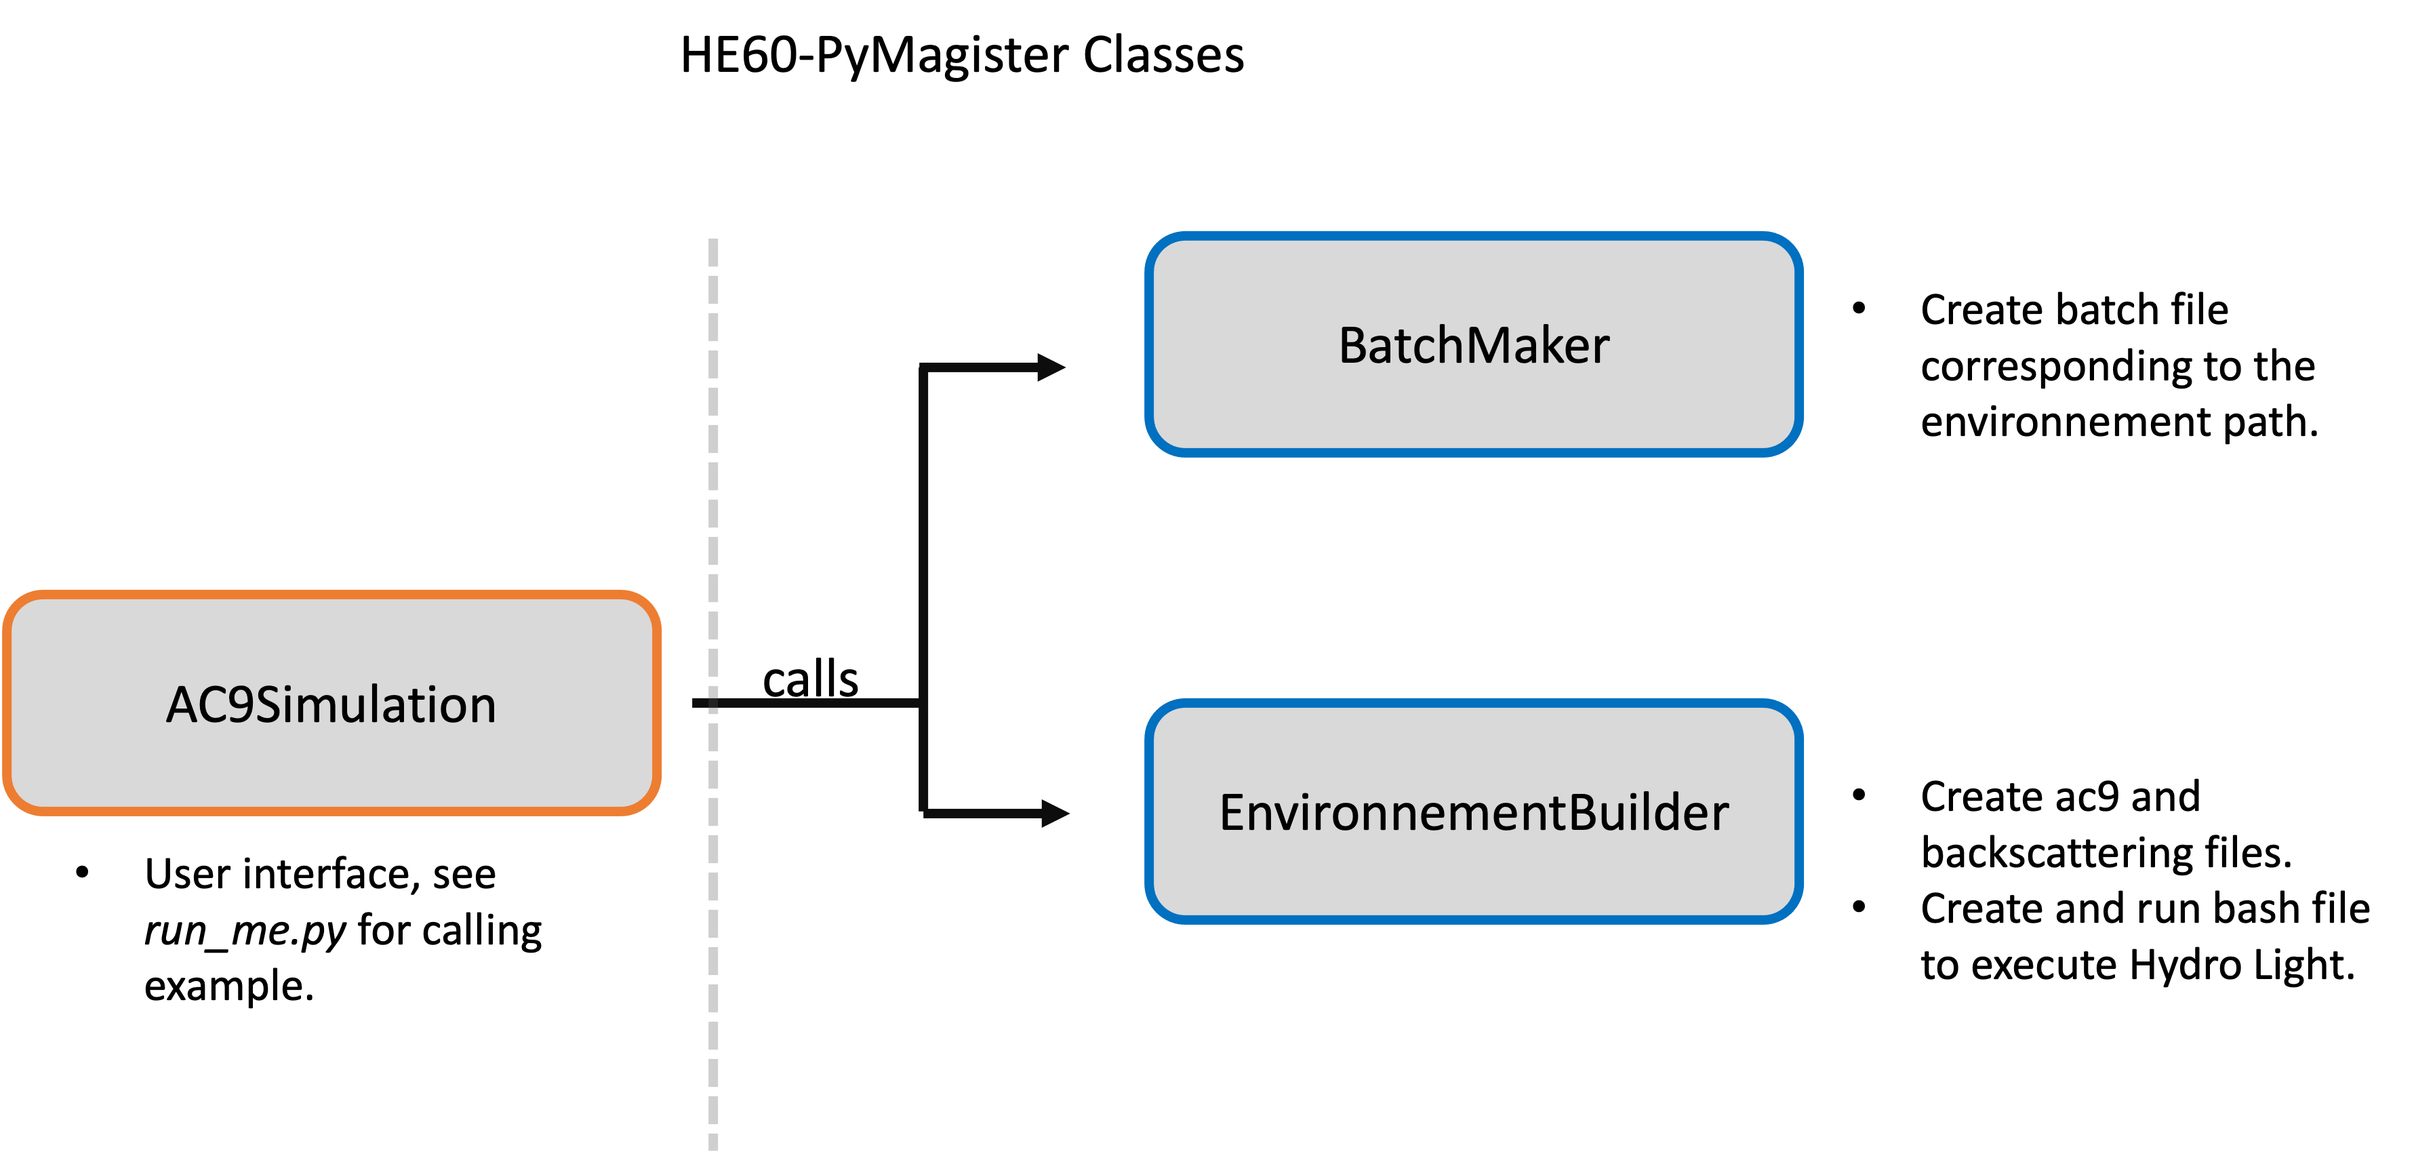
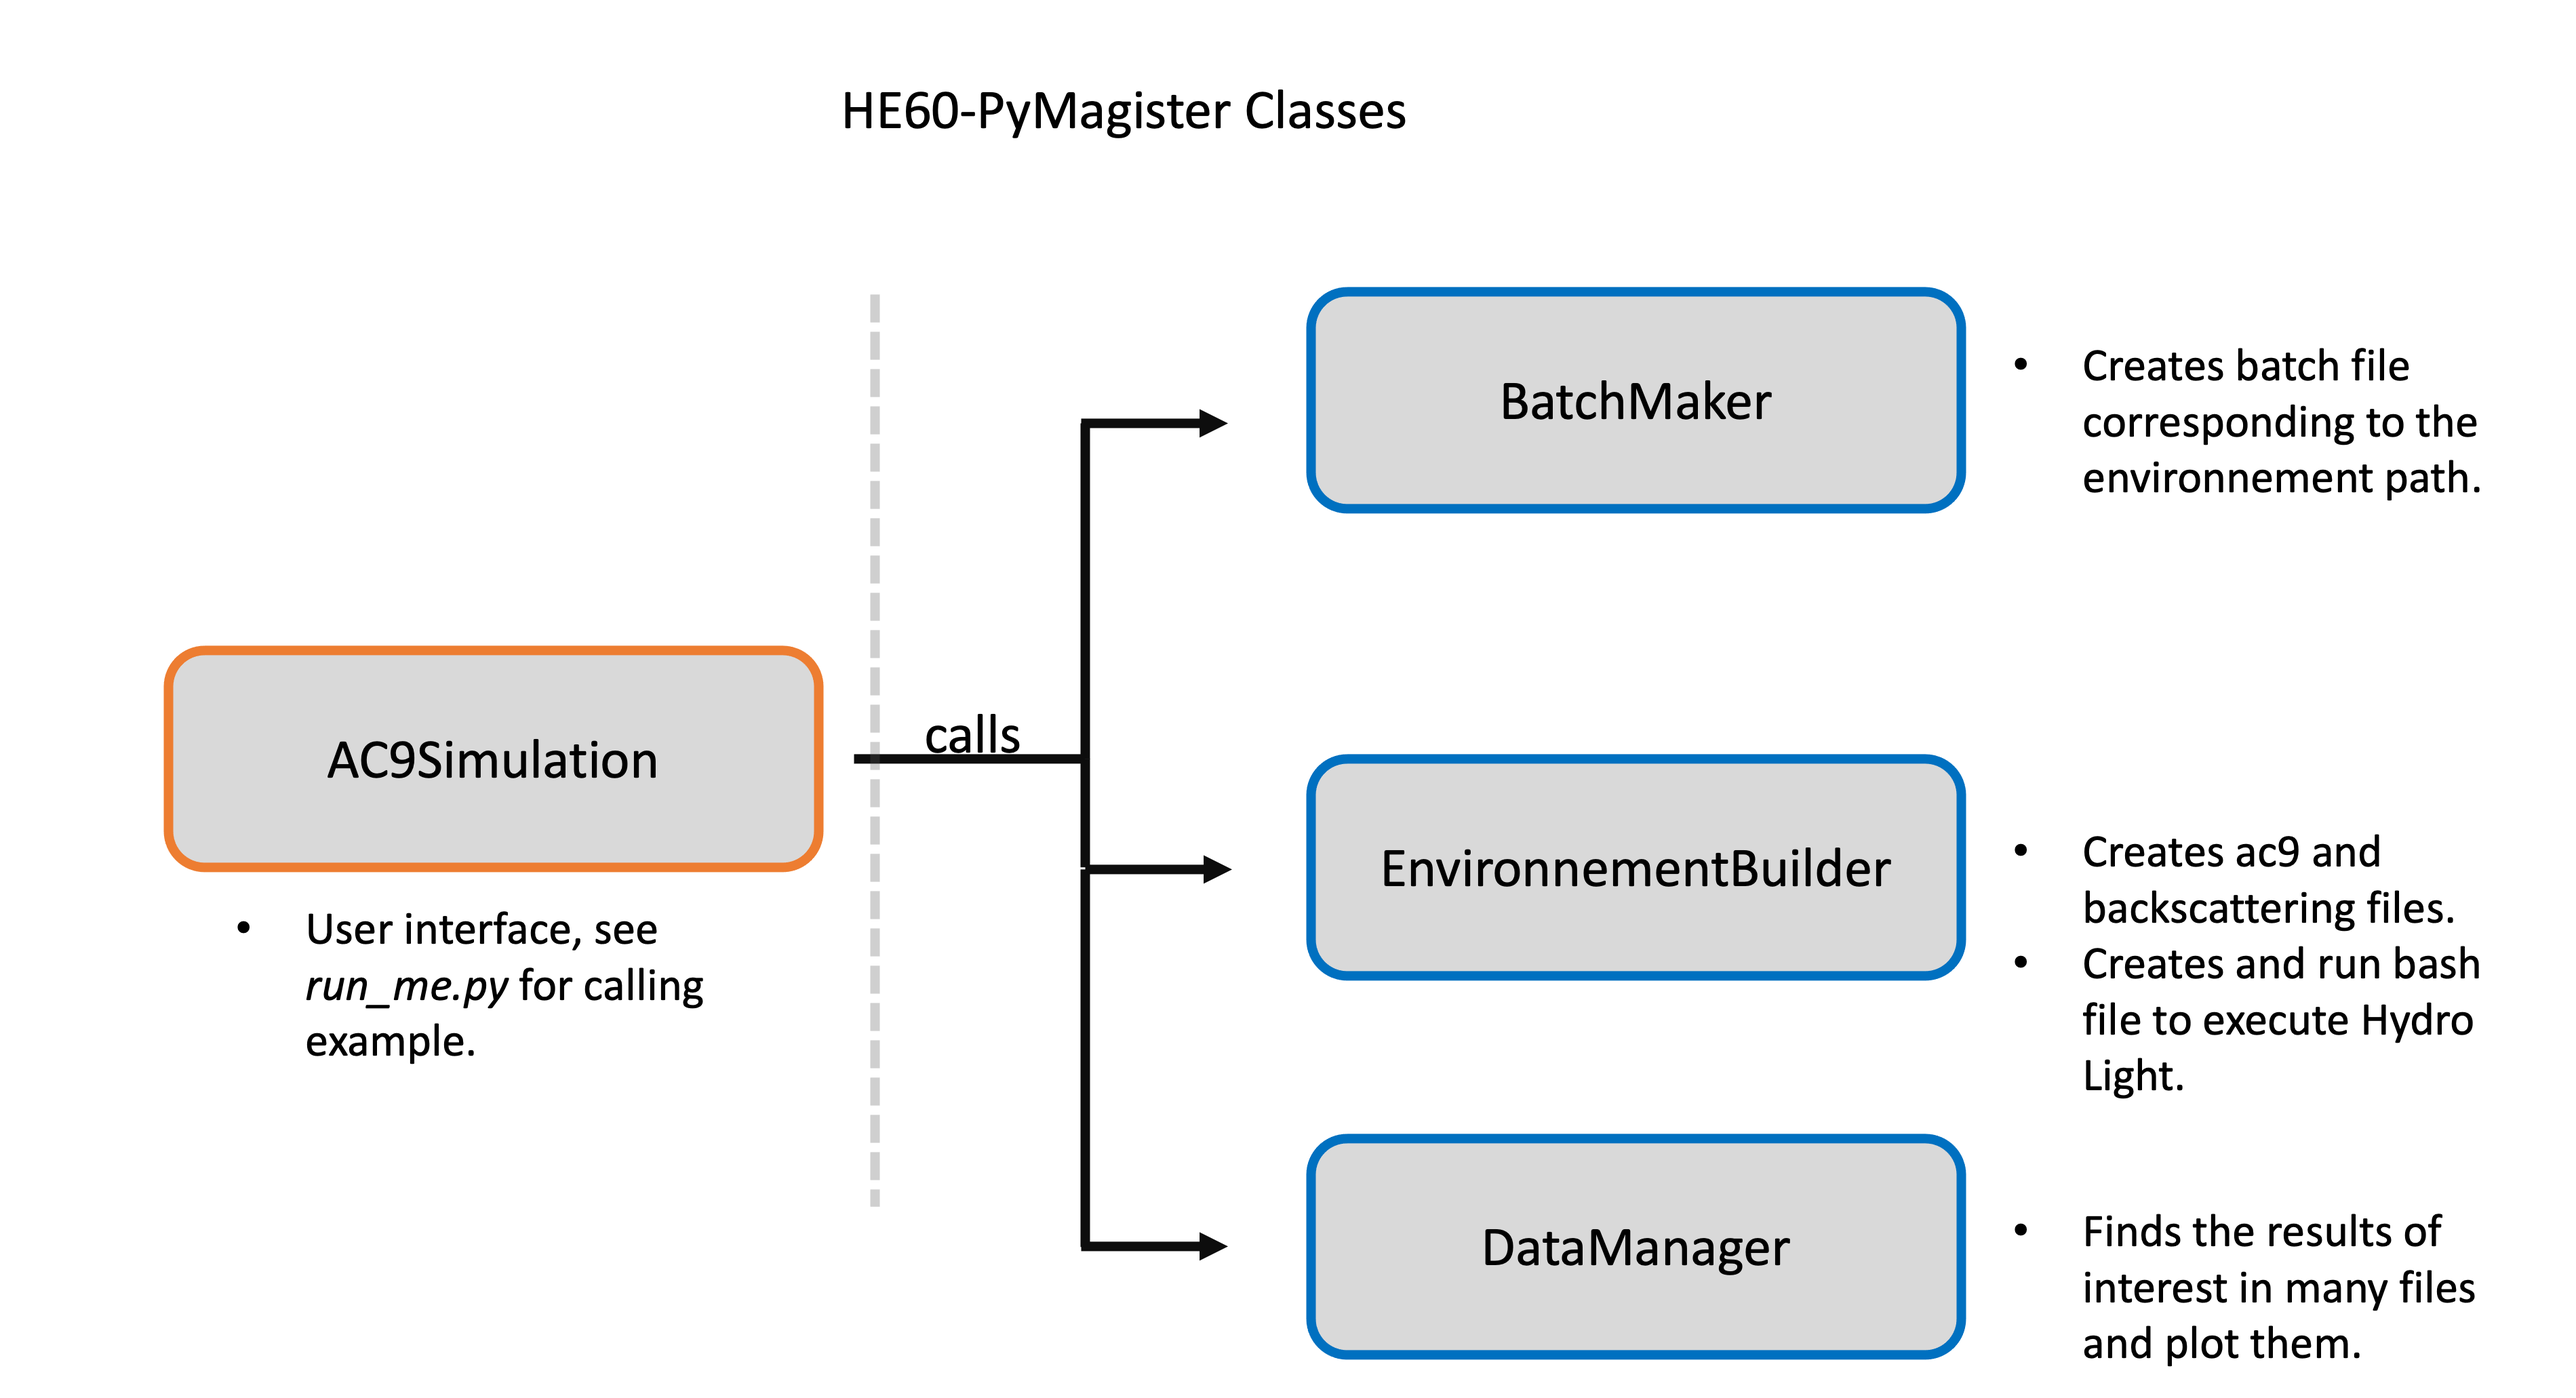
Refactoring to make package like code

Changed region(s): [[0.0, 0.1865, 0.9975, 0.9947], [0.2805, 0.0311, 0.5611, 0.0933]]

diff --git a/HE60_PY/HE60_magister.py b/HE60_PY/HE60_magister.py
@@ -6,7 +6,7 @@ import subprocess
 
 
 def create_null_pure_water():
-    H2O_default_data = np.genfromtxt('ressources/H2OabsorpTS.txt', skip_header=16, skip_footer=1)
+    H2O_default_data = np.genfromtxt('../ressources/H2OabsorpTS.txt', skip_header=16, skip_footer=1)
     H2O_NULL_WATER_PROP = np.array(H2O_default_data, dtype=np.float16)
     H2O_NULL_WATER_PROP[:, 1], H2O_NULL_WATER_PROP[:, 2], H2O_NULL_WATER_PROP[:, 3] = 0.0, 0.0, 0.0
     header = "\\begin_header \n" \
@@ -16,9 +16,9 @@ def create_null_pure_water():
              "wavelen[nm]  aref[1/m]  PsiT[(1/m)/deg C] PsiS[(1/m)/ppt] \n" \
              "\\end_header\n"
     footer = "\\end_data"
-    with open('ressources/null_H2Oabsorps.txt', 'w') as file:
+    with open('../ressources/null_H2Oabsorps.txt', 'w+') as file:
         file.write(header)
-        np.savetxt(file, H2O_NULL_WATER_PROP, fmt='%1.2e', delimiter='\t')
+        np.savetxt(file, H2O_NULL_WATER_PROP, fmt='%1.5e', delimiter='\t')
         file.write(footer)
 
 
@@ -35,7 +35,7 @@ class BatchMaker:
         self.rootname = None
         self.Nwave = None
         self.batch_name = batch_name
-        
+
     def set_title(self, title):
         self.run_title = title
 
@@ -241,10 +241,10 @@ class EnvironmentBuilder:
                  "\\end_header\n"
         first_line = "{}\t{}\n".format(int(self.n_wavelengths), '\t'.join([str(i) for i in self.wavelengths]))
         footer = "\\end_data"
-        with open(path+'/backscattering_file.txt', 'w') as file:
+        with open(path+'/backscattering_file.txt', 'w+') as file:
             file.write(header)
             file.write(first_line)
-            np.savetxt(file, self.z_bb_grid, fmt='%1.2e', delimiter='\t')
+            np.savetxt(file, self.z_bb_grid, fmt='%1.5e', delimiter='\t')
             file.write(footer)
         shutil.copy(src=path+'/backscattering_file.txt', dst=r'/Applications/HE60.app/Contents/data/phase_functions/HydroLight/user_defined/backscattering_file.txt')
 
@@ -258,10 +258,10 @@ class EnvironmentBuilder:
                  "\\end_header\n"
         first_line = "{}\t{}\n".format(int(self.n_wavelengths), '\t'.join([str(i) for i in self.wavelengths]))
         footer = "\\end_data"
-        with open(path+'/ac9_file.txt', 'w') as file:
+        with open(path+'/ac9_file.txt', 'w+') as file:
             file.write(header)
             file.write(first_line)
-            np.savetxt(file, self.z_ac_grid, fmt='%1.2e', delimiter='\t')
+            np.savetxt(file, self.z_ac_grid, fmt='%1.5e', delimiter='\t')
             file.write(footer)
 
 
@@ -307,11 +307,11 @@ class AC9Simulation(BatchMaker, EnvironmentBuilder):
 
     def add_layer(self, z1, z2, abs, scat, bb):
         c = abs + scat
-        self.z_ac_grid[(self.z_ac_grid[:, 0] >= z1) & (self.z_ac_grid[:, 0] < z2), 1: self.n_wavelengths] = abs
-        self.z_ac_grid[(self.z_ac_grid[:, 0] >= z1) & (self.z_ac_grid[:, 0] < z2), self.n_wavelengths::] = c
+        self.z_ac_grid[(self.z_ac_grid[:, 0] >= z1) & (self.z_ac_grid[:, 0] < z2), 1: self.n_wavelengths + 1] = abs
+        self.z_ac_grid[(self.z_ac_grid[:, 0] >= z1) & (self.z_ac_grid[:, 0] < z2), self.n_wavelengths+1::] = c
         self.z_bb_grid[(self.z_bb_grid[:, 0] >= z1) & (self.z_bb_grid[:, 0] < z2), 1::] = bb * scat
 
-    def set_z_grid(self, z_max, delta_z=0.01):
+    def set_z_grid(self, z_max, delta_z=0.001):
         self.z_max = z_max
         self.delta_z = delta_z
         nz = int(z_max/delta_z)+1

diff --git a/phase_function.py b/phase_function.py
@@ -7,15 +7,24 @@ def fournier_forand_pf(n, mu, phi):
         delta = 4 / (3 * (n - 1)**2) * np.sin(theta / 2) ** 2
         return delta
     nu = (3-mu)/2
-    beta = 1/(4*np.pi*(1-delta())**2*delta()**nu) * (nu*(1-delta()) - (1-delta()**nu) +
+    beta = 1/(4*np.pi*(1-delta())**2 *delta()**nu) * (nu*(1-delta()) - (1-delta()**nu) +
              (delta()*(1-delta()**nu)-nu*(1-delta())) * np.sin(phi/2)**(-2)) +\
            (1-delta(np.pi)**nu)/(16*np.pi*(delta(np.pi)-1)*delta(np.pi)**nu)*(3*np.cos(phi)**2 -1)
+    normalised_beta = beta/np.sum(beta)
     return beta
 
+
+def compute_g_fournier_forand(n, mu):
+    thetas = np.linspace(0.000001, np.pi, 100000)
+    d_theta = np.pi/1e3
+    normaliz_factor = 2*np.pi*np.sum(fournier_forand_pf(n, mu, thetas)*np.sin(thetas)*d_theta)
+    g = 2*np.pi*np.sum(fournier_forand_pf(n, mu, thetas) * np.cos(thetas)*np.sin(thetas)*d_theta)
+    return g/normaliz_factor
 
 def henvey_greenstein_pf(phi, g):
     mu = np.cos(phi)
     beta = (1/(4*np.pi))*((1-g**2)/(1+g**2-2*g*mu)**(3/2))
+    normalised_beta = beta/np.sum(beta)
     return beta
 
 
@@ -27,25 +36,41 @@ def henvey_greenstein_bb(g):
 _30_angle, _30_pf = np.loadtxt("ressources/_minus_30_sea_ice_phase_function.txt", skiprows=2).T
 _10_angle, _10_pf = np.loadtxt("ressources/_minus_10_sea_ice_phase_function.txt", skiprows=2).T
 
+#
+# _ns = [1.021, 1.040, 1.08, 1.175, 1.15]
+# _mus = [3.0742, 3.2010, 3.483, 4.065, 4.874]
+# _bbs = [0.0001, 0.001, 0.01, 0.1, 0.4]
+_ns = [1.040, 1.08, 1.175]
+_mus = [3.2010, 3.483, 4.065]
+_bbs = [0.001, 0.01, 0.1]           #    0.995       0.95        0.6582
 
-_ns = [1.021, 1.040, 1.08, 1.175, 1.15]
-_mus = [3.0742, 3.2010, 3.483, 4.065, 4.874]
-_bbs = [0.0001, 0.001, 0.01, 0.1, 0.4]
+_gs = [0.995, 0.954, 0.6582]
+# _gs = np.linspace(0.6582, 0.85, 10)
+_phis = np.linspace(0.001, np.pi, 100000)
 
-_gs = np.linspace(0.98, 0.98, 1)
-_phis = np.linspace(0, np.pi, 100)
 
-plt.scatter(_10_angle*np.pi/180, _10_pf)
-plt.scatter(_30_angle*np.pi/180, _30_pf)
-for _g in _gs:
+
+# plt.scatter(_10_angle*np.pi/180, _10_pf)
+# plt.scatter(_30_angle*np.pi/180, _30_pf)
+
+colors = ['red', 'blue', 'green', 'green', 'orange', 'black', 'grey', 'yellow', 'brown', 'olive']
+for i, _g in enumerate(_gs):
     _beta_HG = henvey_greenstein_pf(phi=_phis, g=_g)
     _HG_bb = henvey_greenstein_bb(g=_g)
-    plt.semilogy(_phis, _beta_HG, label='g={:.2f}, bb={:.4f}'.format(_g, _HG_bb))
-for _n, _mu, _bb in zip(_ns, _mus, _bbs):
+    plt.semilogy(_phis, _beta_HG, label='HG g={:.3f}, bb/b={:.4f}'.format(_g, _HG_bb), color=colors[i])
+
+for i, (_n, _mu, _bb) in enumerate(zip(_ns, _mus, _bbs)):
     _beta_FF = fournier_forand_pf(n=_n, mu=_mu, phi=_phis)
-    plt.semilogy(_phis, _beta_FF, linestyle='--', label='bb={:.4f}'.format(_bb))
+    _g_FF = compute_g_fournier_forand(n=_n, mu=_mu)
+    plt.semilogy(_phis, _beta_FF, linestyle='--', label='FF bb/b={:.4f}'
+                                                        '\n {:.7f}'.format(_bb,_g_FF ), color=colors[i])
+plt.xlabel(r'$\theta$ [rad]')
+plt.ylabel(r'p($\theta$) [-]')
 plt.legend()
 plt.show()
+
+
+
 
 #plt.plot(_gs, henvey_greenstein_bb(_gs))
 #plt.show()

diff --git a/HE60_PY/data_manager.py b/HE60_PY/data_manager.py
@@ -1,0 +1,55 @@
+import pandas as pd
+import matplotlib.pyplot as plt
+import numpy as np
+
+
+def compute_transmittance_from_Kd(Kd_z, delta_z=0.005):
+    transmittance = np.exp(-np.sum(delta_z*Kd_z))
+    return transmittance
+
+
+class DataFinder:
+    def __init__(self, batch_name):
+        self.data = None
+        self.batch_name =  batch_name
+
+        self.broad_band_Kdz_df = None
+        self.transmittance = None
+
+    def hercule_poirot(self, xl_path, sheet):
+        """
+        Famous Agatha Christie's detective, always there
+        when you need to find where you have put that
+        sneaky data point.
+        :return:
+        """
+        df = pd.read_excel(xl_path, sheet, header=3)
+        return df
+
+    def get_broadband_Kdz(self):
+        path = '/Users/braulier/Documents/HE60/output/HydroLight/excel/M' + self.batch_name + '.xlsx'
+        self.broad_band_Kdz_df = self.hercule_poirot(xl_path=path, sheet='KPAR')
+
+    def get_broadband_transmittance(self):
+        if self.broad_band_Kdz_df is None:
+            self.get_broadband_Kdz()
+        self.transmittance = compute_transmittance_from_Kd(Kd_z=self.broad_band_Kdz_df['K_d (broadband)'])
+
+
+if __name__ == "__main__":
+    ssl_list = np.linspace(0.01, 0.20, 20)
+    fig, axes = plt.subplots(1, 2)
+    for ssl_thickness in ssl_list:
+        ssl_thickness = round(ssl_thickness, 2)
+        example = DataFinder(batch_name='BL_ssl_{}'.format(str(ssl_thickness).replace('.', '_')))
+        example.get_broadband_transmittance()
+        kd_df = example.broad_band_Kdz_df
+        axes[0].plot(kd_df['depth'], kd_df['K_d (broadband)'])
+        axes[1].scatter([ssl_thickness], [example.transmittance])
+    axes[1].set_ylabel('Transmittance')
+    axes[1].set_xlabel('SSL thickness [m]')
+    axes[1].set_xlim([0, 0.25])
+    axes[0].set_xlim([0, 1.25])
+    axes[0].gca().invert_yaxis()
+    plt.show()
+

diff --git a/run_me.py b/run_me.py
@@ -1,15 +1,22 @@
-from HE60_magister import AC9Simulation
+from HE60_PY.HE60_magister import AC9Simulation
+import numpy as np
+from tqdm import tqdm
 
 if __name__ == "__main__":
-    path_to_user_files = r'/Users/braulier/Documents/HE60/run/mobley'
+    path_to_user_files = r'/Users/braulier/Documents/HE60/run/Light'
+    ssl_list = np.linspace(0.01, 0.20, 20)
+
+    for ssl_thickness in tqdm(ssl_list):
+        ssl_thickness = round(ssl_thickness, 2)
 
     # Simulation example, as described in Mobley et al. 1998: MODELING LIGHT PROPAGATION IN SEA ICE
-    mobley_sim = AC9Simulation(path=path_to_user_files, batch_name='Mobley_1998_example')
-    mobley_sim.build_and_run_mobley_1998_example()
+    # mobley_sim = AC9Simulation(path=path_to_user_files, batch_name='Mobley_1998_example')
+    # mobley_sim.build_and_run_mobley_1998_example()
 
-    # User built example
-    user_built_sim = AC9Simulation(path=path_to_user_files, batch_name='user_built_example')
-    user_built_sim.set_z_grid(z_max=1.0)
-    user_built_sim.add_layer(z1=0.0, z2=0.1, abs=0.5, scat=1000, bb=0.0109)
-    user_built_sim.add_layer(z1=0.1, z2=1.01, abs=0.4, scat=200, bb=0.0042)
-    user_built_sim.run_built_model(printOutput=True)
+        # Bonnie Light 3 layers example with constant absorption (0.4)
+        user_built_sim = AC9Simulation(path=path_to_user_files, batch_name='BL_ssl_{}'.format(str(ssl_thickness).replace('.', '_')))
+        user_built_sim.set_z_grid(z_max=1.25)
+        user_built_sim.add_layer(z1=0.0, z2=ssl_thickness, abs=0.4, scat=1700, bb=0.0132)
+        user_built_sim.add_layer(z1=ssl_thickness, z2=0.30, abs=0.4, scat=250, bb=0.0132)
+        user_built_sim.add_layer(z1=0.30, z2=1.26, abs=0.4, scat=16, bb=0.0132)     # last z2 must be greater then z_max
+        user_built_sim.run_built_model()

diff --git a/setup.py b/setup.py
@@ -1,0 +1,11 @@
+import setuptools
+
+setuptools.setup(
+    name='HE60_PY',
+    version='0.0.1',
+    author='Bastian Raulier',
+    author_email='bastian.raulier.1@ulaval.ca',
+    description='Python code to control Hydro Light.',
+    include_package_data=True,
+    packages=setuptools.find_packages()
+)
